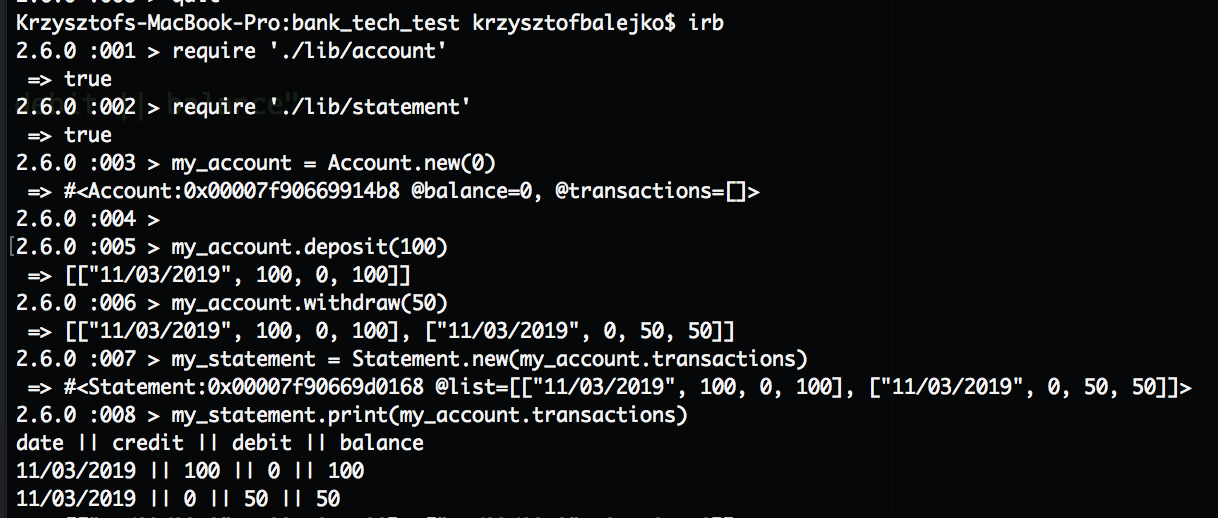
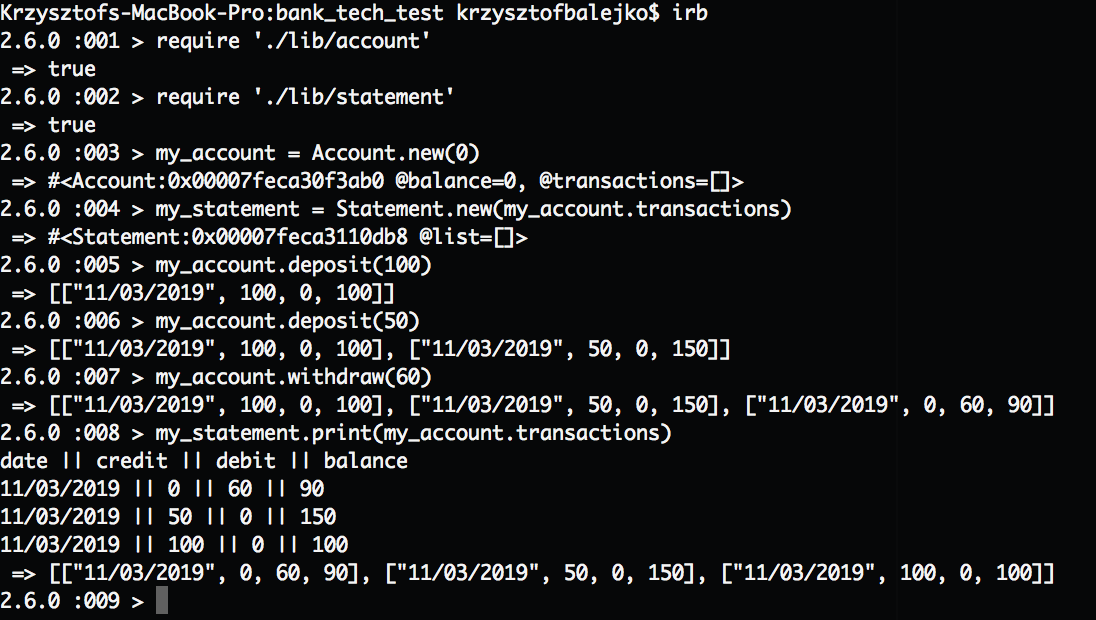
fix: iterating through transactions in reverse. Interaction updated

Changed region(s): [[0.0, 0.0, 0.9927, 1.0]]

diff --git a/lib/converter_module.rb b/lib/converter_module.rb
@@ -1,7 +1,7 @@
 module Converter
 
   def convert(list)
-    list.each do |element|
+    list.reverse.each do |element|
       puts element.join(",").gsub!(",", " || ")
     end
   end
